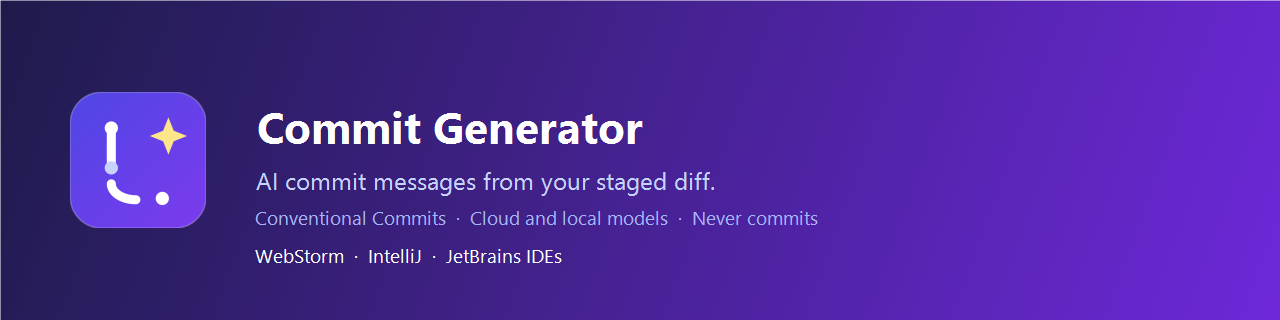
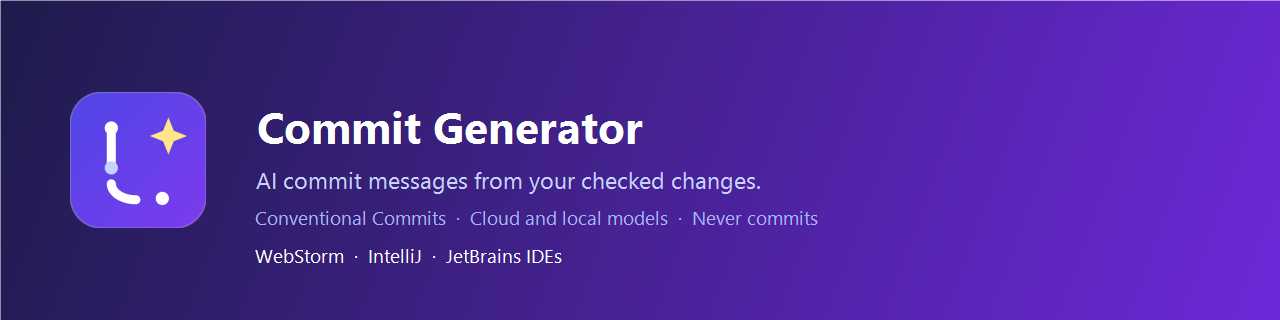
docs: document checked-file selection

Changed region(s): [[0.1875, 0.5312, 0.5938, 0.625]]

diff --git a/MARKETPLACE.md b/MARKETPLACE.md
@@ -60,10 +60,13 @@ edit, and commit. It never commits for you.</p>
 
 <h3>What it does</h3>
 <ul>
-  <li>Turns staged, unstaged, or untracked Git changes into one meaningful commit message.</li>
+  <li>Generates one meaningful commit message from the files checked in the Commit panel,
+      or from staged, unstaged, and untracked changes when started from the tool window.</li>
   <li>Works with OpenAI, Anthropic Claude, Google Gemini, DeepSeek, OpenRouter, Ollama,
       LM Studio, llama.cpp, vLLM, OpenCode, and any OpenAI-compatible endpoint.</li>
-  <li>Supports multiple provider profiles, model discovery, and connection tests.</li>
+  <li>Multiple provider profiles, model discovery, and connection tests.</li>
+  <li>Uses the files checked in the Commit panel, so JetBrains commit checkboxes work
+      without staging files with Git first.</li>
   <li>Quick, Smart, and Detailed modes with token budgeting and map-reduce analysis for
       large change sets.</li>
   <li>Conventional Commits validation, optional body, breaking-change footers, issue keys,
@@ -180,7 +183,7 @@ VCS, and bundled Git plugin. The plugin verifier reports compatibility with WebS
 Marketplace listings with screenshots convert substantially better. Capture these five
 images at 1440x900 or larger, PNG, under 5 MB each.
 
-1. **Commit panel action** - open the Commit tool window with staged changes and show the
+1. **Commit panel action** - open the Commit tool window with checked files and show the
    Commit Generator button in the message toolbar. Caption: `Generate from the Commit panel`.
 2. **Tool window** - show the provider, staged/unstaged toggles, mode, Generate button, and a
    generated Conventional Commit message. Caption: `One tool window for every control`.

diff --git a/README.md b/README.md
@@ -19,6 +19,8 @@ It never commits for you.
 ## What it does
 
 - Turns a Git change set into one meaningful commit message.
+- Uses the files checked in the Commit panel, so JetBrains commit checkboxes work without
+  staging files into the Git index first.
 - Uses the AI provider and model you choose, including local models with no account.
 - Follows Conventional Commits: `feat`, `fix`, `refactor`, `perf`, `docs`, `test`, `build`,
   `ci`, `chore`, `style`, `revert`.
@@ -166,9 +168,11 @@ Set the mode in the Commit Generator tool window or the settings page.
 
 ## Choosing what to analyse
 
-Staged, unstaged, and untracked changes are independent toggles:
+Staged, unstaged, and untracked changes are independent toggles. When generation starts from
+the Commit panel, the checked files take precedence and are diffed against `HEAD`.
 
-- **Staged changes** (default on) - the Git index (`HEAD` to index).
+- **Staged changes** (default on) - the Git index (`HEAD` to index). Used when the Commit
+  panel selection is not available.
 - **Unstaged changes** (default on) - the working tree, including merge conflicts.
 - **Untracked files** (default off) - files Git does not track yet.
 

diff --git a/ARCHITECTURE.md b/ARCHITECTURE.md
@@ -128,7 +128,9 @@ used:
 The architecture test rejects `GitCommand.ADD`, `COMMIT`, `RESET`, `RESTORE`, `CHECKOUT`,
 `MERGE`, `REBASE`, `STASH`, `UPDATE_INDEX`, `UPDATE_REF`, `RM`, and `MV`.
 
-Staged, unstaged, and untracked changes are selected independently:
+Staged, unstaged, and untracked changes are selected independently. When generation starts
+from the Commit panel, the files checked there take precedence and are diffed against `HEAD`,
+so both staged and unstaged edits in a checked file are included.
 
 - staged: `git diff --cached`
 - unstaged: `git diff` (including conflicts)

diff --git a/CHANGELOG.md b/CHANGELOG.md
@@ -9,6 +9,8 @@ project uses semantic versioning.
 
 - First release for WebStorm and JetBrains IDEs.
 - AI commit message generation from staged, unstaged, and untracked Git changes.
+- Reads the files checked in the JetBrains Commit panel, so commit checkboxes work without
+  staging files into the Git index first.
 - Eleven provider presets: DeepSeek, OpenAI, Anthropic, Google Gemini, OpenRouter, Ollama,
   LM Studio, llama.cpp, vLLM, OpenCode, and custom OpenAI-compatible endpoints.
 - Multiple provider profiles, model discovery, manual model entry, connection tests, and
